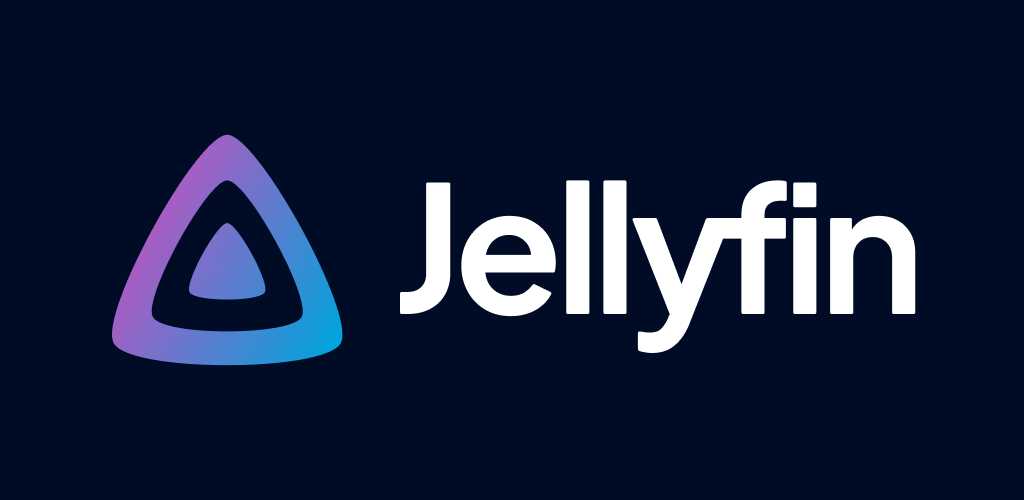
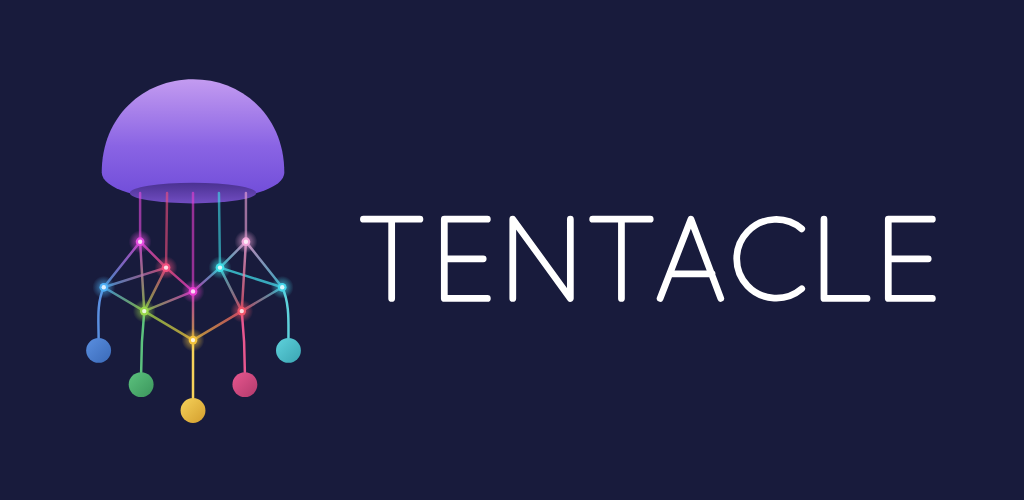
Tentacle's jellyfish instead of the Jellyfin and Moonfin marks (#175)
The app still showed Moonfin's moon (toolbar, sign-in and server screens,
About) and Jellyfin's triangle (update and now-playing notifications, the
About rows, the Android TV home channel logo, the built-in player entry,
the launcher image placeholder). All of them now use Tentacle's
one-colour jellyfish (drawable/ic_tentacle.xml, from jellyfin-tentacle
scripts/brand.py) or the launcher icon. The Jellyfin mark stays where it
means a Jellyfin server (server type icon).

Unused Jellyfin/Moonfin resources removed (app_banner*, app_icon*,
ic_tentacle_white, tentacle_ic_channel*); the store listing icon, TV
banner and feature graphic are Tentacle's.

Changed region(s): [[0.3438, 0.36, 0.9375, 0.72], [0.0625, 0.15, 0.3438, 0.84]]

diff --git a/app/src/main/java/org/jellyfin/androidtv/ui/background/UpdateCheckWorker.kt b/app/src/main/java/org/jellyfin/androidtv/ui/background/UpdateCheckWorker.kt
@@ -104,7 +104,7 @@ class UpdateCheckWorker(
 
 		// Build notification
 		val notification = NotificationCompat.Builder(applicationContext, NOTIFICATION_CHANNEL_ID)
-			.setSmallIcon(R.drawable.ic_jellyfin)
+			.setSmallIcon(R.drawable.ic_tentacle)
 			.setContentTitle(applicationContext.getString(R.string.notification_update_available_title))
 			.setContentText(applicationContext.getString(R.string.notification_update_available_text, updateInfo.version))
 			.setStyle(NotificationCompat.BigTextStyle()

diff --git a/app/src/main/java/org/jellyfin/androidtv/ui/settings/screen/authentication/SettingsAuthenticationScreen.kt b/app/src/main/java/org/jellyfin/androidtv/ui/settings/screen/authentication/SettingsAuthenticationScreen.kt
@@ -131,7 +131,7 @@ fun SettingsAuthenticationScreen(launchedFromLogin: Boolean = false) {
 
 		if (launchedFromLogin) item {
 			ListButton(
-				leadingContent = { Icon(painterResource(R.drawable.ic_jellyfin), contentDescription = null) },
+				leadingContent = { Icon(painterResource(R.drawable.ic_tentacle), contentDescription = null) },
 				headingContent = { Text(stringResource(R.string.pref_about_title)) },
 				onClick = { router.push(Routes.ABOUT, mapOf("fromLogin" to "true")) }
 			)

diff --git a/app/src/main/java/org/jellyfin/androidtv/ui/settings/screen/playback/SettingsPlaybackScreen.kt b/app/src/main/java/org/jellyfin/androidtv/ui/settings/screen/playback/SettingsPlaybackScreen.kt
@@ -52,7 +52,7 @@ fun SettingsPlaybackScreen() {
 						externalAppRepository.getCurrentExternalPlayerApp(context)?.loadIcon(context.packageManager)
 					}
 					Image(
-						painter = if (iconDrawable == null) rememberAsyncImagePainter(R.mipmap.app_icon)
+						painter = if (iconDrawable == null) rememberAsyncImagePainter(R.mipmap.tentacle_launcher)
 						else rememberAsyncImagePainter(iconDrawable),
 						contentDescription = null,
 						modifier = Modifier

diff --git a/app/src/main/java/org/jellyfin/androidtv/ui/settings/screen/SettingsMainScreen.kt b/app/src/main/java/org/jellyfin/androidtv/ui/settings/screen/SettingsMainScreen.kt
@@ -67,7 +67,7 @@ fun SettingsMainScreen() {
 
 		item {
 			ListButton(
-				leadingContent = { Icon(painterResource(R.drawable.ic_jellyfin), contentDescription = null) },
+				leadingContent = { Icon(painterResource(R.drawable.ic_tentacle), contentDescription = null) },
 				headingContent = { Text(stringResource(R.string.pref_about_title)) },
 				onClick = { router.push(Routes.ABOUT) }
 			)

diff --git a/app/src/main/java/org/jellyfin/androidtv/di/PlaybackModule.kt b/app/src/main/java/org/jellyfin/androidtv/di/PlaybackModule.kt
@@ -90,7 +90,7 @@ fun Scope.createPlaybackManager() = playbackManager(androidContext()) {
 	val mediaSessionOptions = MediaSessionOptions(
 		channelId = notificationChannelId,
 		notificationId = 1,
-		iconSmall = R.drawable.app_icon_foreground,
+		iconSmall = R.drawable.ic_tentacle,
 		openIntent = pendingIntent,
 	)
 	install(media3SessionPlugin(get(), mediaSessionOptions))

diff --git a/app/src/main/java/org/jellyfin/androidtv/integration/LeanbackChannelWorker.kt b/app/src/main/java/org/jellyfin/androidtv/integration/LeanbackChannelWorker.kt
@@ -216,7 +216,7 @@ class LeanbackChannelWorker(
 
 		// Update logo
 		if (uri != null) {
-			ResourcesCompat.getDrawable(context.resources, R.mipmap.app_icon, context.theme)?.let {
+			ResourcesCompat.getDrawable(context.resources, R.mipmap.tentacle_launcher, context.theme)?.let {
 				ChannelLogoUtils.storeChannelLogo(
 					context,
 					ContentUris.parseId(uri),

diff --git a/app/src/main/java/org/jellyfin/androidtv/ui/settings/screen/playback/SettingsPlaybackPlayerScreen.kt b/app/src/main/java/org/jellyfin/androidtv/ui/settings/screen/playback/SettingsPlaybackPlayerScreen.kt
@@ -46,7 +46,7 @@ fun SettingsPlaybackPlayerScreen() {
 			ListButton(
 				leadingContent = {
 					Image(
-						painter = rememberAsyncImagePainter(R.mipmap.app_icon),
+						painter = rememberAsyncImagePainter(R.mipmap.tentacle_launcher),
 						contentDescription = null,
 						modifier = Modifier
 							.size(32.dp)
